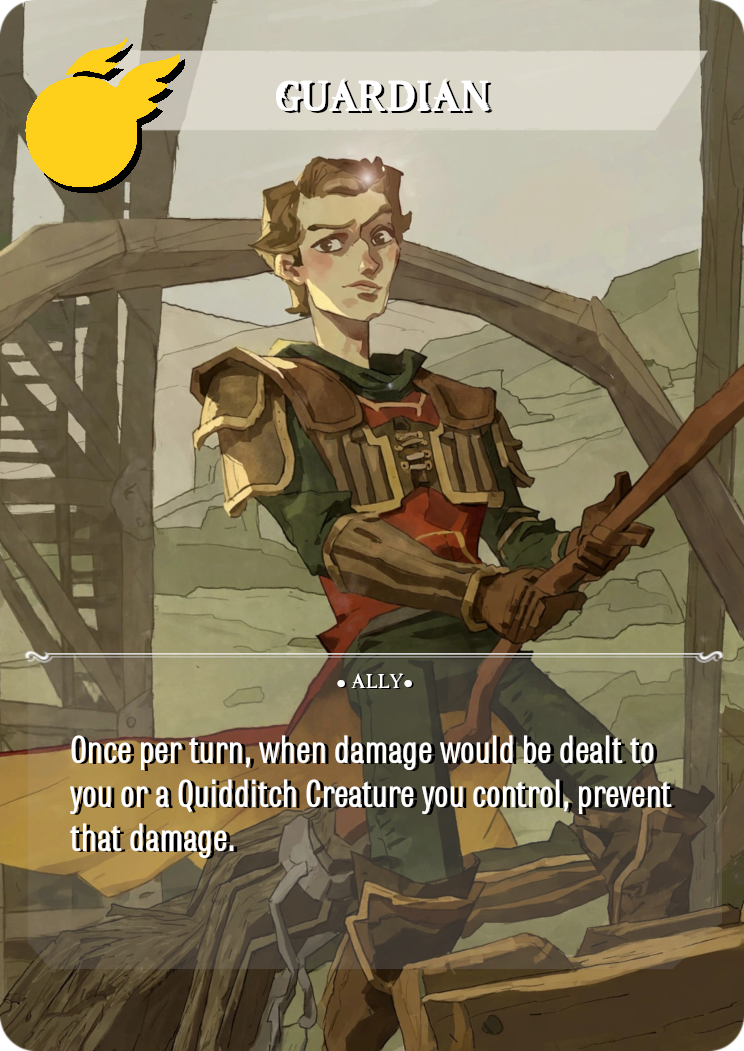
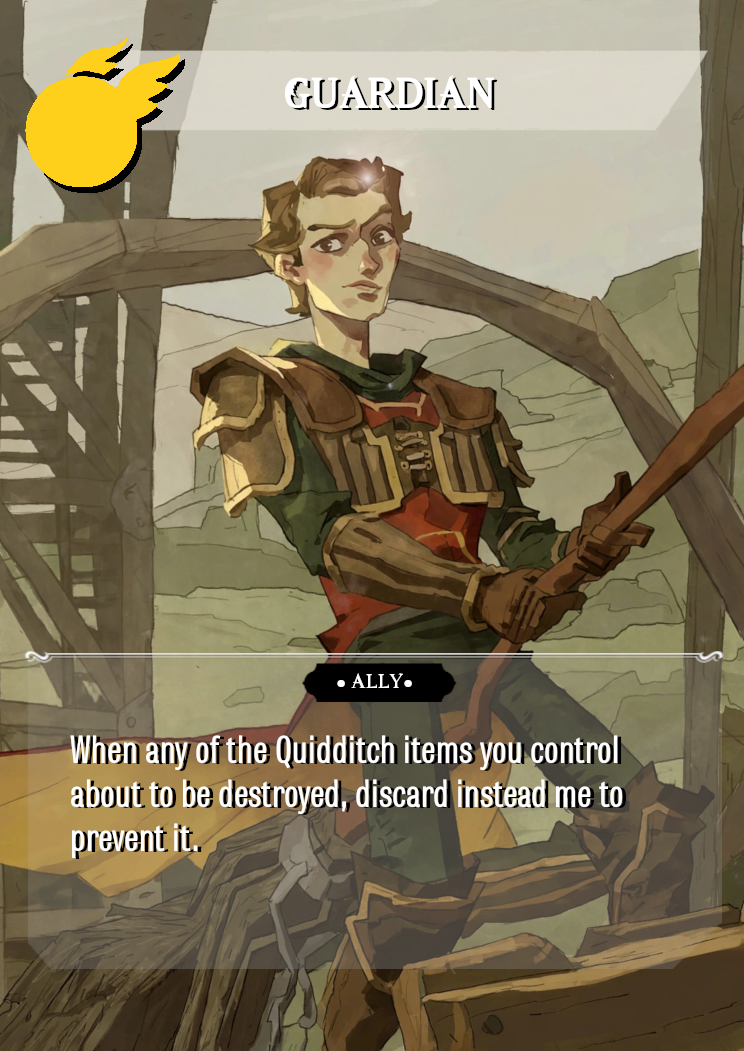
v1.133 Lots of changes

diff --git a/index.html b/index.html
@@ -464,7 +464,7 @@
 <div class="modal" id="deckCodeModal" style="z-index:1100;width:min(620px,94vw)"><div style="display:flex;justify-content:space-between;align-items:center;gap:8px"><h2 id="deckCodeTitle" style="margin:0">Deck Code</h2><button onclick="closeDeckCodeModal()">Close</button></div><p id="deckCodeHelp"></p><textarea id="deckCodeInput" spellcheck="false" style="width:100%;height:135px;resize:vertical;background:#0e1116;color:#eee;border:1px solid #48515e;border-radius:7px;padding:10px;font:12px monospace;margin:8px 0"></textarea><div style="display:flex;justify-content:flex-end;gap:8px"><button id="deckCodeCopy" onclick="copyDeckCode()">Copy Code</button><button id="deckCodeImport" onclick="importDeckCode()">Import Deck</button></div></div><div id="lookRevealOverlay" class="lookRevealOverlay" style="display:none"><div class="lookRevealPanel"><div class="lookRevealHeader"><b id="lookRevealTitle">Opponent reveals cards</b><button onclick="closeLookReveal()">Close</button></div><div id="lookRevealCards" class="lookRevealCards"></div></div></div><div class="deckModal" id="deckModal"><div class="deckBox"><div class="deckHead"><b id="deckTitle">Deck</b><button onclick="closeDeckViewer()">Close</button></div><div class="deckControls" id="deckControls"></div><div class="deckCards" id="deckCards"></div></div></div><script src="https://cdn.jsdelivr.net/npm/@supabase/supabase-js@2/dist/umd/supabase.js"></script><script>
 let id=1,phase='setup',turn=1,sel=null,selDeck=null,viewPlayer=1;const P={1:newP(),2:newP()};function newP(){return{main:[],lessonDeck:[],hand:[],handRevealed:false,lessons:[],play:[],discard:[],lessonDiscard:[],exile:[],mull:[],char:null,life:20,actionsLeft:2,lessonsPlayed:0,dobbyUsed:false,combatStep:"combat"}}
 let history=[];function snapshot(){return JSON.parse(JSON.stringify({P,phase,turn}));}function pushHistory(){if(phase!=='game')return;history.push(snapshot());if(history.length>50)history.shift();}function undoMove(){if(lobbyMode==='invite'&&onlineStarted){requestOnlineUndo();return}if(phase!=='game'||!history.length){toast('Nothing to undo.');return}let h=history.pop();Object.keys(P).forEach(k=>P[k]=h.P[k]);phase=h.phase;turn=h.turn;sel=null;selDeck=null;render();document.getElementById('status').textContent='Player '+turn+' Turn';toast('Last action undone.')}
-const CARD_DB={"Draco Malfoy":{"type":"Ally","domain":"Neutral","cost":0,"effect":"Once per turn, spend an action to discard a card. If you do, look at your opponent's hand and discard a card.","image":"cards/allies/char_draco.png"},"Harry Potter":{"type":"Ally","domain":"Neutral","cost":0,"effect":"Once per turn, when you play your second card, draw 1 card.","image":"cards/allies/char_harry.png"},"Ron Weasley":{"type":"Ally","domain":"Neutral","cost":0,"effect":"When you play an Ally, it costs 1 Action instead of 2.","image":"cards/allies/char_ron.png"},"Hermione Granger":{"type":"Ally","domain":"Neutral","cost":0,"effect":"Once per turn, when you play your second spell, draw 1 Lesson.","image":"cards/allies/char_hermione.png"},"Luna Lovegood":{"type":"Ally","domain":"Neutral","cost":0,"effect":"Once per turn, if you control 6 or more Lessons, you may discard 2 Lessons to create a Thestral Token.","image":"cards/allies/char_luna.png"},"Neville Longbottom":{"type":"Ally","domain":"Neutral","cost":0,"effect":"Once per turn, when you play a Creature, you may restore 2 Health to a Creature or Player.","image":"cards/allies/char_neville.png"},"Dobby":{"type":"Ally","domain":"Neutral","cost":0,"effect":"Once per turn, you may discard 1 Lesson to destroy a Spell targeting you.","image":"cards/allies/char_dobby.png"},"Aquamenti":{"type":"Spell","domain":"Charms","cost":2,"effect":"Deal 2 damage to a Creature or player.","image":"cards/charms/charm_aguamenti.png"},"Flipendo":{"type":"Quick Spell","domain":"Charms","cost":2,"effect":"Return a Creature with a Cost of 3 or less to its owner's hand.","image":"cards/charms/charm_flipendo.png"},"Stupefy":{"type":"Spell","domain":"Charms","cost":2,"effect":"Deal 2 damage to a Creature or Player. If your opponent controls exactly one Creature, deal 2 additional damage to that Creature or the player.","image":"cards/charms/charm_stupefy.png"},"Episkey":{"type":"Spell","domain":"Charms","cost":2,"effect":"Restore 4 Health to a Creature or Player.","image":"cards/charms/charm_episkey.png"},"Expelliarmus":{"type":"Spell","domain":"Charms","cost":3,"effect":"Deal 2 damage to a Player. Additional Cost — Discard 1 Lesson: Destroy an Ongoing Spell or an Item.","image":"cards/charms/charm_expelliarmus.png"},"Priori Incantatem":{"type":"Spell","domain":"Charms","cost":3,"effect":"Discard a card from your hand. Return a Spell from your discard pile to your hand.","image":"cards/charms/charm_priori.png"},"Protego":{"type":"Quick Spell","domain":"Charms","cost":3,"effect":"Shield 5 to a target.","image":"cards/charms/charm_protego.png"},"Atmospheric Charm":{"type":"Spell","domain":"Charms","cost":5,"effect":"Each Player shuffles their hand into their deck, then draws 4 cards.","image":"cards/charms/charm_atmospheric.png"},"Incendio":{"type":"Spell","domain":"Charms","cost":5,"effect":"Deal 4 damage to a target and 1 damage to each other valid target in play.","image":"cards/charms/charm_incendio.png"},"Reducto":{"type":"Spell","domain":"Charms","cost":6,"effect":"Deal 1 damage to your opponent, plus 1 additional damage for each damage they have taken.","image":"cards/charms/charm_reducto.png"},"Wildfire Whiz Bangs":{"type":"Spell","domain":"Charms","cost":7,"effect":"Deal 7 damage to a Creature or Player.","image":"cards/charms/charm_whizbangs.png"},"Apparate":{"type":"Quick Spell","domain":"Transfiguration","cost":1,"effect":"Choose one: Destroy a Location; or destroy a Spell targeting you.","image":"cards/transfiguration/transf_apparate.png"},"Avis":{"type":"Spell","domain":"Transfiguration","cost":2,"effect":"Additional Cost — Discard 1 Transfiguration Lesson: Create 2 Bird Tokens.","image":"cards/transfiguration/transf_avis.png"},"Confundus":{"type":"Quick Spell","domain":"Transfiguration","cost":2,"effect":"Choose one: Look at your opponent's hand; or return a Spell your opponent is playing to their hand.","image":"cards/transfiguration/transf_confundus.png"},"Incarcerous":{"type":"Spell","domain":"Transfiguration","cost":2,"effect":"The next Spell you play this turn that targets an opponent's card affects all valid targets controlled by that opponent instead of one.","image":"cards/transfiguration/transf_incarcerous.png"},"Bat Bogey Hex":{"type":"Quick Spell","domain":"Transfiguration","cost":3,"effect":"Destroy a Spell with a Cost of 4 or less. If you do, draw a card.","image":"cards/transfiguration/transf_batbogeyhex.png"},"Glacius":{"type":"Ongoing Spell","domain":"Transfiguration","cost":2,"effect":"Countdown 1: Freeze a target.","image":"cards/transfiguration/transf_glacius.png"},"Glacius Maxima":{"type":"Ongoing Spell","domain":"Transfiguration","cost":4,"effect":"Countdown 2: Freeze up to 3 targets.","image":"cards/transfiguration/transf_glaciusmaxima.png"},"Oppugno":{"type":"Ongoing Spell","domain":"Transfiguration","cost":3,"effect":"Countdown 1: Deal 1 damage to a Player, plus 1 additional damage for every 2 Creatures you control.","image":"cards/transfiguration/transf_oppugno.png"},"Petrificus Totalus":{"type":"Quick Spell","domain":"Transfiguration","cost":3,"effect":"Choose one: Destroy an ally; or freeze a creature.","image":"cards/transfiguration/transf_petrificus.png"},"Carpe Retractum":{"type":"Spell","domain":"Transfiguration","cost":3,"effect":"Return up to 2 items you control to your hand.","image":"cards/transfiguration/transf_carperetractum.png"},"Piertotum Locomotor":{"type":"Spell","domain":"Transfiguration","cost":6,"effect":"Create 2 Stone Guardian Tokens.","image":"cards/transfiguration/transf_piertotum.png"},"Pawn":{"type":"Creature","domain":"Neutral","cost":2,"health":1,"damage":1,"effect":"When this is destroyed: draw 1 card.","image":"cards/creatures/creature_pawn.png"},"Bowtruckle":{"type":"Creature","domain":"Neutral","cost":2,"health":2,"damage":1,"effect":"When this enters play: look at the top 3 cards of your deck. You may reveal an Item among them and put it into your hand. Put the rest on the bottom.","image":"cards/creatures/creature_bowtruckle.png"},"Mooncalf":{"type":"Creature","domain":"Neutral","cost":2,"health":2,"damage":1,"effect":"The first time you play a Lesson each turn: Mooncalf gets +1 Damage until end of turn.","image":"cards/creatures/creature_mooncalf.png"},"Niffler":{"type":"Creature","domain":"Neutral","cost":2,"health":2,"damage":0,"effect":"Niffler counts as a Lesson while in play.","image":"cards/creatures/creature_niffler.png"},"Pixies":{"type":"Creature","domain":"Neutral","cost":2,"health":1,"damage":2,"effect":"When this enters play: if you control another Creature, draw 1 card.","image":"cards/creatures/creature_pixies.png"},"Snowman":{"type":"Creature","domain":"Neutral","cost":2,"health":3,"damage":1,"effect":"When this deals damage to a Player, Freeze an opposing Creature.","image":"cards/creatures/creature_snowman.png"},"Firecrab":{"type":"Creature","domain":"Neutral","cost":3,"health":4,"damage":2,"effect":"Block (You must deal damage to me first).","image":"cards/creatures/creature_firecrab.png"},"Monster Book":{"type":"Creature","domain":"Neutral","cost":3,"health":3,"damage":2,"effect":"When this enters play: return a Spell with Cost 3 or less from your discard pile to your hand.","image":"cards/creatures/creature_mosterbook.png"},"Transfiguration Lesson":{"type":"Lesson","cost":0,"domain":"Transfiguration","image":"cards/lessons/lesson_transfiguration.png"},"Charm Lesson":{"type":"Lesson","cost":0,"domain":"Charms","image":"cards/lessons/lesson_charm.png"},"Quidditch Lesson":{"type":"Lesson","cost":0,"domain":"Quidditch","image":"cards/lessons/lesson_quidditch.png"},"Potions & Items Lesson":{"type":"Lesson","cost":0,"domain":"Potions","image":"cards/lessons/lesson_potions.png"},"Dark Arts Lesson":{"type":"Lesson","cost":0,"domain":"Dark Arts","image":"cards/lessons/lesson_dark.png"},"Flying Broom":{"type":"Item","domain":"Quidditch","cost":2,"effect":"When this enters play, choose one: Draw 1 card or Discard a card to Draw a lesson.","image":"cards/quidditch/quidd_broom.png"},"Golden Snitch":{"type":"Item","domain":"Quidditch","cost":2,"effect":"When this enters play or is returned to its owner's hand, you may draw 1 card.","image":"cards/quidditch/quidd_snitch.png"},"Golden Snidget":{"type":"Creature","domain":"Quidditch","cost":2,"life":2,"damage":2,"effect":"Whenever this deals damage to a Player, draw a card.","image":"cards/quidditch/quidd_snidget.png"},"Bludger":{"type":"Item","domain":"Quidditch","cost":3,"effect":"When this enters play or is returned to its owner's hand, deal 2 damage to a target.","image":"cards/quidditch/quidd_bludger.png"},"Quidditch Kit":{"type":"Item","domain":"Quidditch","cost":3,"effect":"The first time you play a Quidditch card each turn, look at the top 2 cards of your deck. Put one into your hand and the other on the bottom.","image":"cards/quidditch/quidd_kit.png"},"Winged Catapult":{"type":"Creature","domain":"Quidditch","cost":3,"life":3,"damage":2,"effect":"Whenever this deals damage to a Player, look at the top card of your deck. You may put it on the bottom.","image":"cards/quidditch/quidd_winged.png"},"Beater":{"type":"Ally","domain":"Quidditch","cost":"-","effect":"Once per turn, you may discard a card: Return a Quidditch Item to its owner's hand.","image":"cards/quidditch/quidd_beater.png"},"Seeker":{"type":"Ally","domain":"Quidditch","cost":"-","effect":"Once per turn, search your deck for a Golden Snitch or Quidditch Item, reveal it, put it into your hand, then shuffle.","image":"cards/quidditch/quidd_seeker.png"},"Guardian":{"type":"Ally","domain":"Quidditch","cost":"-","effect":"When damage would be dealt to you or a Quidditch Creature you control, discard me to prevent that damage.","image":"cards/quidditch/quidd_guardian.png"},"Memory Vial":{"type":"Item","domain":"Potions","cost":3,"effect":"Once per turn, you may discard a card from your hand to draw a Lesson.","image":"cards/potions/potinos_memoryvial.png"},"Weasley Fireworks":{"type":"Item","domain":"Potions","cost":2,"effect":"Once per turn, deal 1 damage to a Creature.","image":"cards/potions/potinos_wealeyfireworks.png"},"Stone Guardian":{"type":"Creature","domain":"Neutral","cost":0,"health":4,"life":4,"damage":1,"effect":"Block (You must deal damage to me first).","image":"cards/tokens/token_stoneguardian.png","token":true},"Luna's Thestral":{"type":"Creature","domain":"Neutral","cost":0,"health":3,"life":3,"damage":3,"effect":"Sacrifice this and discard 2 Lessons: Deal 2 damage to a target, plus 1 additional damage for each Spell in your discard pile.","image":"cards/tokens/token_thestrals.png","token":true},"Magical Birds":{"type":"Creature","domain":"Neutral","cost":0,"health":1,"life":1,"damage":1,"effect":"","image":"cards/tokens/token_magicalbirds.png","token":true},"Diffindo":{"type":"Spell","domain":"Transfiguration","cost":5,"effect":"Deal 3 damage to a target. Then, deal 3 damage to each Frozen target.","image":"cards/transfiguration/transf_diffindo.png"},"Yeti":{"type":"Creature","domain":"Neutral","cost":5,"health":5,"damage":3,"effect":"Countdown 2: Freeze up to 3 targets.","image":"cards/creatures/creature_yeti.png"},"Orb of Water":{"type":"Ongoing Spell","domain":"Transfiguration","cost":6,"effect":"Countdown 1: Freeze up to 3 targets and deal 1 damage to each of them. When this card is discarded, deal 3 damage to the same targets.","image":"cards/transfiguration/transf_orb.png"},"Accio":{"type":"Spell","domain":"Charms","cost":3,"effect":"Return a Lesson from your discard pile to play.","image":"cards/charms/charm_accio.png"},"Wingardium Leviosa":{"type":"Spell","domain":"Charms","cost":3,"effect":"Additional Cost — Discard 1 Lesson: You may return an Item you control to your hand. If you paid the additional cost, return an Item from your discard pile to your hand.","image":"cards/charms/charm_wingardium.png"},"Nebulus":{"type":"Ongoing Spell","domain":"Charms","cost":4,"effect":"Countdown 2: Your opponent cannot target you with cards they control.","image":"cards/charms/charm_nebulus.png"},"Protego Totalum":{"type":"Spell","domain":"Charms","cost":6,"effect":"Shield 5 to you and each Creature you control.","image":"cards/charms/charm_protego_t.png"},"Slug Vomiting Charm":{"type":"Ongoing Spell","domain":"Charms","cost":2,"effect":"Countdown 2: Freeze your opponent's Starting Ally. Then, your opponent discards a card.","image":"cards/charms/charm_slugs.png"},"Expecto Patronus":{"type":"Spell","domain":"Transfiguration","cost":4,"effect":"Destroy a Creature with a Cost of 5 or less then draw 1. If it was a Dementor, draw 2.","image":"cards/transfiguration/transf_patronus.png"},"Time Turner":{"type":"Item","domain":"Potions","cost":6,"effect":"Once per turn, you may discard 3 cards from your hand to take 1 additional Action.","image":"cards/potions/potions_time.png"},"Portkey":{"type":"Item","domain":"Potions","cost":3,"effect":"Once per turn, you may shuffle a card from your hand to draw 1.","image":"cards/potions/potions_portkey.png"},"Chomping Cabbage":{"type":"Creature","domain":"Potions","cost":3,"health":3,"damage":2,"effect":"The first time you play a Potion each turn, Chomping Cabbage gets 1 additional damage.","image":"cards/potions/potinos_cabbage.png"},"Weasley Bomb Box":{"type":"Item","domain":"Potions","cost":4,"effect":"All Creatures you control deal 1 additional damage.","image":"cards/potions/potinos_weasleybombs.png"},"Swelling Solution":{"type":"Potion","domain":"Potions","cost":2,"effect":"Countdown 2: Your Creatures and Basic Casts deal 1 additional damage.","image":"cards/potions/potinos_swelling.png"},"Felix Felicis":{"type":"Potion","domain":"Potions","cost":5,"effect":"Countdown 1: Look at the top 3 cards of your deck. You may choose a Spell and play it for no cost.","image":"cards/potions/potinos_felix.png"},"Arrow Shooting Spell":{"type":"Ongoing Spell","domain":"Transfiguration","cost":3,"effect":"Countdown 1: Choose one: Deal 2 damage to a Player; or destroy a Creature with a Cost of 3 or less.","image":"cards/transfiguration/transf_arrow.png"},"Riddikulus":{"type":"Ongoing Spell","domain":"Charms","cost":3,"effect":"Freeze an Ally as long as this Spell is in play.","image":"cards/charms/charm_riddikulus.png"},"Obscurus":{"type":"Dark Spell","domain":"Dark Arts","cost":5,"effect":"Additional Cost — Discard your hand: Draw 3 cards. Deal 1 damage to your opponent for each card discarded this way, up to 5 damage.","image":"cards/dark/dark_obscurus.png"},"Sectumsempra":{"type":"Dark Spell","domain":"Dark Arts","cost":4,"effect":"Deal 3 damage to a target. If that target has already been dealt damage this turn, deal 3 additional damage to it. Your opponent cannot restore health next turn.","image":"cards/dark/dark_sectumsempra.png"},"Death Eater":{"type":"Ally","domain":"Dark Arts","cost":5,"effect":"Once per turn, look at the top 3 cards of your deck. If you find a Dark Spell, you may play it for 2 fewer Lessons. Shuffle the remaining cards.","image":"cards/dark/dark_deatheater.png"},"Imperio":{"type":"Dark Spell","domain":"Dark Arts","cost":6,"effect":"Additional Cost: Discard 1 Lesson: Choose a Creature or Ally. You gain control of it for as long as Imperio remains in play.","image":"cards/dark/dark_imperio.png"},"Vanishing Cabinet":{"type":"Item","domain":"Dark Arts","cost":3,"effect":"When this enters play or is discarded, draw 1 card.","image":"cards/dark/dark_cabinet.png"},"Enchanted Candy":{"type":"Item","domain":"Potions","cost":2,"effect":"The first Spell you play each turn deals 2 additional damage.","image":"cards/potions/potinos_candy.png"},"Impedimenta":{"type":"Ongoing Spell","domain":"Charms","cost":3,"effect":"Countdown 1: Your opponent has 1 fewer Action during their next turn.","image":"cards/charms/charm_impedimenta.png"},"Homorphus":{"type":"Spell","domain":"Transfiguration","cost":4,"effect":"Replace a Creature or Ally with a Wild Boar Token.","image":"cards/transfiguration/transf_homorphus.png"},"Wild Boar":{"type":"Creature","domain":"Neutral","cost":0,"health":1,"life":1,"damage":1,"effect":"","image":"cards/tokens/token_wildboar.png","token":true},"Horrocrux":{"type":"Item","domain":"Dark Arts","cost":6,"effect":"Additional Cost — Sacrifice a Creature or Ally you control. Your opponent cannot win the game while your Health is 0 or less as long as this Item remains in play. Your opponent must destroy this Item to win the game.","image":"cards/dark/dark_horrocrux.png"},"Finite Incantatem":{"type":"Ongoing Spell","domain":"Charms","cost":4,"effect":"Countdown 1: Destroy all Ongoing Spells and Dark Spells your opponent controls. Your opponent must discard a card to play a Lesson.","image":"cards/charms/charm_finite.png"}};const BACKS={main:'cards/backs/main_back.png',lesson:'cards/backs/lesson_back.png'};const cards=Object.entries(CARD_DB).filter(([n,d])=>d.type!=='Lesson'&&!d.token).map(([n,d])=>[n,d.type,d.cost]);
+const CARD_DB={"Draco Malfoy":{"type":"Ally","domain":"Neutral","cost":0,"effect":"Once per turn, spend an action to discard a card. If you do, look at your opponent's hand and discard a card.","image":"cards/allies/char_draco.png"},"Harry Potter":{"type":"Ally","domain":"Neutral","cost":0,"effect":"Once per turn, when you play your second card, draw 1 card.","image":"cards/allies/char_harry.png"},"Ron Weasley":{"type":"Ally","domain":"Neutral","cost":0,"effect":"When you play an Ally, it costs 1 Action instead of 2.","image":"cards/allies/char_ron.png"},"Hermione Granger":{"type":"Ally","domain":"Neutral","cost":0,"effect":"Once per turn, when you play your second spell, draw 1 Lesson.","image":"cards/allies/char_hermione.png"},"Luna Lovegood":{"type":"Ally","domain":"Neutral","cost":0,"effect":"Once per turn, if you control 6 or more Lessons, you may discard 2 Lessons to create a Thestral Token.","image":"cards/allies/char_luna.png"},"Neville Longbottom":{"type":"Ally","domain":"Neutral","cost":0,"effect":"Once per turn, when you play a Creature, you may restore 2 Health to a Creature or Player.","image":"cards/allies/char_neville.png"},"Dobby":{"type":"Ally","domain":"Neutral","cost":0,"effect":"Once per turn, you may discard 1 Lesson to destroy a Spell targeting you.","image":"cards/allies/char_dobby.png"},"Aquamenti":{"type":"Spell","domain":"Charms","cost":2,"effect":"Deal 2 damage to a Creature or player.","image":"cards/charms/charm_aguamenti.png"},"Flipendo":{"type":"Quick Spell","domain":"Charms","cost":2,"effect":"Return a Creature with a Cost of 3 or less to its owner's hand.","image":"cards/charms/charm_flipendo.png"},"Stupefy":{"type":"Spell","domain":"Charms","cost":2,"effect":"Deal 2 damage to a Creature or Player. If your opponent controls exactly one Creature, deal 2 additional damage to that Creature or the player.","image":"cards/charms/charm_stupefy.png"},"Episkey":{"type":"Spell","domain":"Charms","cost":2,"effect":"Restore 4 Health to a Creature or Player.","image":"cards/charms/charm_episkey.png"},"Expelliarmus":{"type":"Spell","domain":"Charms","cost":3,"effect":"Deal 2 damage to a Player. Additional Cost — Discard 1 Lesson: Destroy an Ongoing Spell or an Item.","image":"cards/charms/charm_expelliarmus.png"},"Priori Incantatem":{"type":"Spell","domain":"Charms","cost":3,"effect":"Discard a card from your hand. Return a Spell from your discard pile to your hand.","image":"cards/charms/charm_priori.png"},"Protego":{"type":"Quick Spell","domain":"Charms","cost":3,"effect":"Shield 5 to a target.","image":"cards/charms/charm_protego.png"},"Atmospheric Charm":{"type":"Spell","domain":"Charms","cost":5,"effect":"Each Player shuffles their hand into their deck, then draws 4 cards.","image":"cards/charms/charm_atmospheric.png"},"Incendio":{"type":"Spell","domain":"Charms","cost":5,"effect":"Deal 4 damage to a target and 1 damage to each other valid target in play.","image":"cards/charms/charm_incendio.png"},"Reducto":{"type":"Spell","domain":"Charms","cost":6,"effect":"Deal 1 damage to your opponent, plus 1 additional damage for each damage they have taken.","image":"cards/charms/charm_reducto.png"},"Wildfire Whiz Bangs":{"type":"Spell","domain":"Charms","cost":7,"effect":"Deal 7 damage to a Creature or Player.","image":"cards/charms/charm_whizbangs.png"},"Apparate":{"type":"Quick Spell","domain":"Transfiguration","cost":1,"effect":"Choose one: Destroy a Location; or destroy a Spell targeting you.","image":"cards/transfiguration/transf_apparate.png"},"Avis":{"type":"Spell","domain":"Transfiguration","cost":2,"effect":"Additional Cost — Discard 1 Transfiguration Lesson: Create 2 Bird Tokens.","image":"cards/transfiguration/transf_avis.png"},"Confundus":{"type":"Quick Spell","domain":"Transfiguration","cost":2,"effect":"Choose one: Look at your opponent's hand; or return a Spell your opponent is playing to their hand.","image":"cards/transfiguration/transf_confundus.png"},"Incarcerous":{"type":"Spell","domain":"Transfiguration","cost":2,"effect":"The next Spell you play this turn that targets an opponent's card affects all valid targets controlled by that opponent instead of one.","image":"cards/transfiguration/transf_incarcerous.png"},"Bat Bogey Hex":{"type":"Quick Spell","domain":"Transfiguration","cost":3,"effect":"Destroy a Spell with a Cost of 4 or less. If you do, draw a card.","image":"cards/transfiguration/transf_batbogeyhex.png"},"Glacius":{"type":"Ongoing Spell","domain":"Transfiguration","cost":2,"effect":"Countdown 1: Freeze a target.","image":"cards/transfiguration/transf_glacius.png"},"Glacius Maxima":{"type":"Ongoing Spell","domain":"Transfiguration","cost":4,"effect":"Countdown 2: Freeze up to 3 targets.","image":"cards/transfiguration/transf_glaciusmaxima.png"},"Oppugno":{"type":"Ongoing Spell","domain":"Transfiguration","cost":3,"effect":"Countdown 1: Deal 1 damage to a Player, plus 1 additional damage for every 2 Creatures you control.","image":"cards/transfiguration/transf_oppugno.png"},"Petrificus Totalus":{"type":"Quick Spell","domain":"Transfiguration","cost":3,"effect":"Choose one: Destroy an ally; or freeze a creature.","image":"cards/transfiguration/transf_petrificus.png"},"Carpe Retractum":{"type":"Spell","domain":"Transfiguration","cost":3,"effect":"Additional Cost — Discard a Lesson. Return up to 2 Items you control to your hand; if you paid the additional cost, return 2 Items your opponent controls instead.","image":"cards/transfiguration/transf_carperetractum.png"},"Piertotum Locomotor":{"type":"Spell","domain":"Transfiguration","cost":6,"effect":"Create 2 Stone Guardian Tokens.","image":"cards/transfiguration/transf_piertotum.png"},"Pawn":{"type":"Creature","domain":"Neutral","cost":2,"health":1,"damage":1,"effect":"When this is destroyed: draw 1 card.","image":"cards/creatures/creature_pawn.png"},"Bowtruckle":{"type":"Creature","domain":"Neutral","cost":2,"health":2,"damage":1,"effect":"When this enters play: look at the top 3 cards of your deck. You may reveal an Item among them and put it into your hand. Put the rest on the bottom.","image":"cards/creatures/creature_bowtruckle.png"},"Mooncalf":{"type":"Creature","domain":"Neutral","cost":2,"health":2,"damage":1,"effect":"The first time you play a Lesson each turn: Mooncalf gets +1 Damage until end of turn.","image":"cards/creatures/creature_mooncalf.png"},"Niffler":{"type":"Creature","domain":"Neutral","cost":2,"health":2,"damage":0,"effect":"Niffler counts as a Lesson while in play.","image":"cards/creatures/creature_niffler.png"},"Pixies":{"type":"Creature","domain":"Neutral","cost":2,"health":1,"damage":2,"effect":"When this enters play: if you control another Creature, draw 1 card.","image":"cards/creatures/creature_pixies.png"},"Snowman":{"type":"Creature","domain":"Neutral","cost":2,"health":3,"damage":1,"effect":"When this deals damage to a Player, Freeze an opposing Creature.","image":"cards/creatures/creature_snowman.png"},"Firecrab":{"type":"Creature","domain":"Neutral","cost":3,"health":4,"damage":2,"effect":"Block (You must deal damage to me first).","image":"cards/creatures/creature_firecrab.png"},"Monster Book":{"type":"Creature","domain":"Neutral","cost":3,"health":3,"damage":2,"effect":"When this enters play: return a Spell with Cost 3 or less from your discard pile to your hand.","image":"cards/creatures/creature_mosterbook.png"},"Transfiguration Lesson":{"type":"Lesson","cost":0,"domain":"Transfiguration","image":"cards/lessons/lesson_transfiguration.png"},"Charm Lesson":{"type":"Lesson","cost":0,"domain":"Charms","image":"cards/lessons/lesson_charm.png"},"Quidditch Lesson":{"type":"Lesson","cost":0,"domain":"Quidditch","image":"cards/lessons/lesson_quidditch.png"},"Potions & Items Lesson":{"type":"Lesson","cost":0,"domain":"Potions","image":"cards/lessons/lesson_potions.png"},"Dark Arts Lesson":{"type":"Lesson","cost":0,"domain":"Dark Arts","image":"cards/lessons/lesson_dark.png"},"Flying Broom":{"type":"Item","domain":"Quidditch","cost":2,"effect":"When this enters play, choose one: Draw 1 card or Discard a card to Draw a lesson.","image":"cards/quidditch/quidd_broom.png"},"Golden Snitch":{"type":"Item","domain":"Quidditch","cost":2,"effect":"When this enters play or is returned to its owner's hand, you may draw 1 card.","image":"cards/quidditch/quidd_snitch.png"},"Golden Snidget":{"type":"Creature","domain":"Quidditch","cost":2,"life":2,"damage":2,"effect":"Whenever this deals damage to a Player, draw a card.","image":"cards/quidditch/quidd_snidget.png"},"Bludger":{"type":"Item","domain":"Quidditch","cost":3,"effect":"When this enters play or is returned to its owner's hand, deal 2 damage to a target.","image":"cards/quidditch/quidd_bludger.png"},"Quidditch Kit":{"type":"Item","domain":"Quidditch","cost":3,"effect":"The first time you play a Quidditch card each turn, look at the top 2 cards of your deck. Put one into your hand and the other on the bottom.","image":"cards/quidditch/quidd_kit.png"},"Winged Catapult":{"type":"Creature","domain":"Quidditch","cost":3,"life":3,"damage":2,"effect":"Whenever this deals damage to a Player, look at the top card of your deck. You may put it on the bottom.","image":"cards/quidditch/quidd_winged.png"},"Beater":{"type":"Ally","domain":"Quidditch","cost":"-","effect":"Once per turn, you may discard a card: Return a Quidditch Item to its owner's hand.","image":"cards/quidditch/quidd_beater.png"},"Seeker":{"type":"Ally","domain":"Quidditch","cost":"-","effect":"Once per turn, search your deck for a Golden Snitch or Quidditch Item, reveal it, put it into your hand, then shuffle.","image":"cards/quidditch/quidd_seeker.png"},"Guardian":{"type":"Ally","domain":"Quidditch","cost":"-","effect":"When any of the Quidditch Items you control are about to be destroyed, discard me instead to prevent it.","image":"cards/quidditch/quidd_guardian.png"},"Memory Vial":{"type":"Item","domain":"Potions","cost":3,"effect":"Once per turn, you may discard a card from your hand to play a Lesson.","image":"cards/potions/potinos_memoryvial.png"},"Weasley Fireworks":{"type":"Item","domain":"Potions","cost":2,"effect":"Once per turn, deal 1 damage to a Creature.","image":"cards/potions/potinos_wealeyfireworks.png"},"Stone Guardian":{"type":"Creature","domain":"Neutral","cost":0,"health":4,"life":4,"damage":1,"effect":"Block (You must deal damage to me first).","image":"cards/tokens/token_stoneguardian.png","token":true},"Luna's Thestral":{"type":"Creature","domain":"Neutral","cost":0,"health":3,"life":3,"damage":3,"effect":"Sacrifice this and discard 2 Lessons: Deal 2 damage to a target, plus 1 additional damage for each Spell in your discard pile.","image":"cards/tokens/token_thestrals.png","token":true},"Magical Birds":{"type":"Creature","domain":"Neutral","cost":0,"health":1,"life":1,"damage":1,"effect":"","image":"cards/tokens/token_magicalbirds.png","token":true},"Diffindo":{"type":"Spell","domain":"Transfiguration","cost":5,"effect":"Deal 3 damage to a target. Then, deal 3 damage to each Frozen target.","image":"cards/transfiguration/transf_diffindo.png"},"Yeti":{"type":"Creature","domain":"Neutral","cost":5,"health":5,"damage":3,"effect":"Countdown 2: Freeze up to 3 targets.","image":"cards/creatures/creature_yeti.png"},"Orb of Water":{"type":"Ongoing Spell","domain":"Transfiguration","cost":6,"effect":"Countdown 1: Freeze up to 3 targets and deal 1 damage to each of them. When this card is discarded, deal 3 damage to the same targets.","image":"cards/transfiguration/transf_orb.png"},"Accio":{"type":"Spell","domain":"Charms","cost":3,"effect":"Return a Lesson from your discard pile to play.","image":"cards/charms/charm_accio.png"},"Wingardium Leviosa":{"type":"Spell","domain":"Charms","cost":3,"effect":"Additional Cost — Discard 1 Lesson: You may return an Item you control to your hand. If you paid the additional cost, return an Item from your discard pile to your hand.","image":"cards/charms/charm_wingardium.png"},"Nebulus":{"type":"Ongoing Spell","domain":"Charms","cost":4,"effect":"Countdown 2: Your opponent cannot target you with cards they control.","image":"cards/charms/charm_nebulus.png"},"Protego Totalum":{"type":"Spell","domain":"Charms","cost":6,"effect":"Shield 5 to you and each Creature you control.","image":"cards/charms/charm_protego_t.png"},"Slug Vomiting Charm":{"type":"Ongoing Spell","domain":"Charms","cost":2,"effect":"Countdown 2: Freeze your opponent's Starting Ally. Then, your opponent discards a card.","image":"cards/charms/charm_slugs.png"},"Expecto Patronus":{"type":"Spell","domain":"Transfiguration","cost":4,"effect":"Destroy a Creature with a Cost of 5 or less then draw 1. If it was a Dementor, draw 2.","image":"cards/transfiguration/transf_patronus.png"},"Time Turner":{"type":"Item","domain":"Potions","cost":6,"effect":"Once per turn, you may discard 3 cards from your hand to take 1 additional Action.","image":"cards/potions/potions_time.png"},"Portkey":{"type":"Item","domain":"Potions","cost":3,"effect":"Once per turn, you may shuffle a card from your hand to draw 1.","image":"cards/potions/potions_portkey.png"},"Chomping Cabbage":{"type":"Creature","domain":"Potions","cost":3,"health":3,"damage":2,"effect":"The first time you play a Potion each turn, Chomping Cabbage gets 1 additional damage.","image":"cards/potions/potinos_cabbage.png"},"Weasley Bomb Box":{"type":"Item","domain":"Potions","cost":4,"effect":"All Creatures you control deal 1 additional damage.","image":"cards/potions/potinos_weasleybombs.png"},"Swelling Solution":{"type":"Potion","domain":"Potions","cost":2,"effect":"Countdown 2: Your Creatures and Basic Casts deal 1 additional damage.","image":"cards/potions/potinos_swelling.png"},"Felix Felicis":{"type":"Potion","domain":"Potions","cost":5,"effect":"Countdown 1: Look at the top 3 cards of your deck. You may choose a Spell and play it for no cost.","image":"cards/potions/potinos_felix.png"},"Arrow Shooting Spell":{"type":"Ongoing Spell","domain":"Transfiguration","cost":3,"effect":"Countdown 1: Choose one: Deal 2 damage to a Player; or destroy a Creature with a Cost of 3 or less.","image":"cards/transfiguration/transf_arrow.png"},"Riddikulus":{"type":"Ongoing Spell","domain":"Charms","cost":3,"effect":"Freeze an Ally as long as this Spell is in play.","image":"cards/charms/charm_riddikulus.png"},"Obscurus":{"type":"Dark Spell","domain":"Dark Arts","cost":5,"effect":"Additional Cost — Discard your hand: Draw 3 cards. Deal 1 damage to your opponent for each card discarded this way, up to 5 damage.","image":"cards/dark/dark_obscurus.png"},"Sectumsempra":{"type":"Dark Spell","domain":"Dark Arts","cost":4,"effect":"Deal 3 damage to a target. If that target has already been dealt damage this turn, deal 3 additional damage to it. Your opponent cannot restore health next turn.","image":"cards/dark/dark_sectumsempra.png"},"Death Eater":{"type":"Ally","domain":"Dark Arts","cost":5,"effect":"Once per turn, look at the top 3 cards of your deck. If you find a Dark Spell, you may play it for 2 fewer Lessons. Shuffle the remaining cards.","image":"cards/dark/dark_deatheater.png"},"Imperio":{"type":"Dark Spell","domain":"Dark Arts","cost":6,"effect":"Additional Cost: Discard 1 Lesson: Choose a Creature or Ally. You gain control of it for as long as Imperio remains in play.","image":"cards/dark/dark_imperio.png"},"Vanishing Cabinet":{"type":"Item","domain":"Dark Arts","cost":3,"effect":"When this enters play or is discarded, draw 1 card.","image":"cards/dark/dark_cabinet.png"},"Enchanted Candy":{"type":"Item","domain":"Potions","cost":2,"effect":"The first Spell you play each turn deals 2 additional damage.","image":"cards/potions/potinos_candy.png"},"Impedimenta":{"type":"Ongoing Spell","domain":"Charms","cost":3,"effect":"Countdown 1: Your opponent has 1 fewer Action during their next turn.","image":"cards/charms/charm_impedimenta.png"},"Homorphus":{"type":"Spell","domain":"Transfiguration","cost":4,"effect":"Replace a Creature or Ally with a Wild Boar Token.","image":"cards/transfiguration/transf_homorphus.png"},"Wild Boar":{"type":"Creature","domain":"Neutral","cost":0,"health":1,"life":1,"damage":1,"effect":"","image":"cards/tokens/token_wildboar.png","token":true},"Horrocrux":{"type":"Item","domain":"Dark Arts","cost":6,"effect":"Additional Cost — Sacrifice a Creature or Ally you control. Your opponent cannot win the game while your Health is 0 or less as long as this Item remains in play. Your opponent must destroy this Item to win the game.","image":"cards/dark/dark_horrocrux.png"},"Finite Incantatem":{"type":"Ongoing Spell","domain":"Charms","cost":4,"effect":"Countdown 1: Destroy all Ongoing Spells and Dark Spells your opponent controls. Your opponent must discard a card to play a Lesson.","image":"cards/charms/charm_finite.png"},"Legillimens":{"type":"Spell","domain":"Transfiguration","cost":3,"effect":"Look at your opponent's hand. If there is any Spell, your opponent must discard a Lesson.","image":"cards/transfiguration/transf_legillimens.png"},"Scamander Suitcase":{"type":"Item","domain":"Potions","cost":4,"effect":"Once per turn, when you look at the cards of your deck, you may reveal and put all the Creatures you see into your hand.","image":"cards/potions/potinos_suitcase.png"},"Watching the Game":{"type":"Event","domain":"Quidditch","cost":4,"effect":"Your opponent shuffles their hand into their deck. Then your opponent draws 3.","image":"cards/quidditch/quidd_wtg.png"},"Fire Bolt":{"type":"Item","domain":"Quidditch","cost":4,"effect":"When damage would be dealt to you or a Quidditch Creature you control, discard me to prevent that damage. When this card is discarded, draw 1.","image":"cards/quidditch/quidd_firebolt.png"}};const BACKS={main:'cards/backs/main_back.png',lesson:'cards/backs/lesson_back.png'};const cards=Object.entries(CARD_DB).filter(([n,d])=>d.type!=='Lesson'&&!d.token).map(([n,d])=>[n,d.type,d.cost]);
 function C(n,t,c,img=null){return{id:id++,name:n,type:t,cost:c,counter:0,life:t==='Creature'?null:null,image:img,face:1,tapped:false,frozen:false,shield:false,rot:0,x:10,y:10}}function sh(a){for(let i=a.length-1;i>0;i--){let j=Math.random()*(i+1)|0;[a[i],a[j]]=[a[j],a[i]]}return a}function cardFromDB(name,extra={}){let d=CARD_DB[name];if(!d)throw new Error('Card not found in database: '+name);const card=C(name,d.type,d.cost,extra.image||d.image||null);if(d.type==='Creature'){card.life=Number(d.health??d.life??1);card.damage=Number(d.damage??0);}return card}function buildCards(list){return list.flatMap(entry=>{if(typeof entry==='string')return[cardFromDB(entry)];let n=entry.name,count=entry.count||1;return Array.from({length:count},()=>cardFromDB(n,entry))})}function draw(p,n=1){let count=0;while(n--&&P[p].main.length){P[p].hand.push(P[p].main.pop());count++;}if(count&&phase!=='setup')playGameplaySfx('card')}function toast(t){let x=document.getElementById('toast');x.textContent=t;x.classList.add('show');setTimeout(()=>x.classList.remove('show'),1300)}
 let loadedDecks={1:null,2:null};
 
@@ -817,6 +817,17 @@ function spellChainCast(p,cardId,quick=false){
   expExtra=confirm('Expelliarmus — Optional Additional Cost: discard 1 Lesson to destroy an enemy Ongoing Spell or Item after dealing 2 damage. Pay this cost?');
   if(expExtra&&!P[p].lessons.length){toast('You need a Lesson in play to pay the optional cost.');return false;}
  }
+ let carpeLessonIndex=-1;
+ if(f.c.name==='Carpe Retractum'&&P[p].lessons.length){
+  const useExtra=confirm('Carpe Retractum — Discard a Lesson to return 2 opponent Items instead of up to 2 of your own?');
+  if(useExtra){
+   const lessons=P[p].lessons;
+   const choice=prompt('Choose a Lesson to discard for Carpe Retractum:\\n'+lessons.map((x,i)=>(i+1)+'. '+x.name).join('\\n'),'1');
+   if(choice===null)return false;
+   carpeLessonIndex=Number(choice)-1;
+   if(!Number.isInteger(carpeLessonIndex)||carpeLessonIndex<0||carpeLessonIndex>=lessons.length){toast('Invalid Lesson selection.');return false;}
+  }
+ }
  pushHistory();const c=f.c;f.a.splice(f.k,1);if(!payDarkArtsCosts(p,c)){f.a.splice(f.k,0,c);return false;}if(expExtra){
   const lessons=P[p].lessons;
   const input=prompt('Choose a Lesson to discard for Expelliarmus:\n'+lessons.map((x,i)=>(i+1)+'. '+x.name).join('\n'),'1');
@@ -824,8 +835,9 @@ function spellChainCast(p,cardId,quick=false){
   if(input===null||!Number.isInteger(ix)||ix<0||ix>=lessons.length){f.a.splice(f.k,0,c);toast('Expelliarmus cancelled — invalid Lesson selection.');return false;}
   P[p].lessonDiscard.push(lessons.splice(ix,1)[0]);
  }
+ if(carpeLessonIndex>=0)P[p].lessonDiscard.push(P[p].lessons.splice(carpeLessonIndex,1)[0]);
  if(!quick)spendAction(p,c);
- playGameplaySfx('card');spellChain.push({player:p,card:c,seq:++spellChainSerial,expExtra});
+ playGameplaySfx('card');spellChain.push({player:p,card:c,seq:++spellChainSerial,expExtra,carpeExtra:carpeLessonIndex>=0});
  appendComm('log',p,(quick?'Responded with ':'Cast ')+c.name+' (awaiting Resolve).');if(lobbyMode==='invite')onlineSend('action',{message:(quick?'Responded with ':'Cast ')+c.name+' (awaiting Resolve).'});
  spellChainBroadcast();return true;
 }
@@ -1152,7 +1164,7 @@ function creatureDamageBonus(p){
   return total+(match?Number(match[1]):0);
  },0);
 }
-function cardAttack(c,p){return Math.max(0,Number(CARD_DB[c.name]?.damage??c.damage??0))+(p?creatureDamageBonus(p):0);}
+function cardAttack(c,p){return Math.max(0,Number(CARD_DB[c.name]?.damage??c.damage??0)+(Number(c.counter)||0)+(p?creatureDamageBonus(p):0));}
 
 function targetCancel(){const wasStackPoint=!!(targetSelection&&targetSelection.mode==='signal'&&targetSelection.fromStack);targetSelection=null;document.getElementById('targetLine')?.remove();document.querySelectorAll('.targetCandidate').forEach(x=>x.classList.remove('targetCandidate'));if(wasStackPoint)document.getElementById('spellOverlay')?.classList.remove('pointing');}
 function drawTargetArrow(e){
